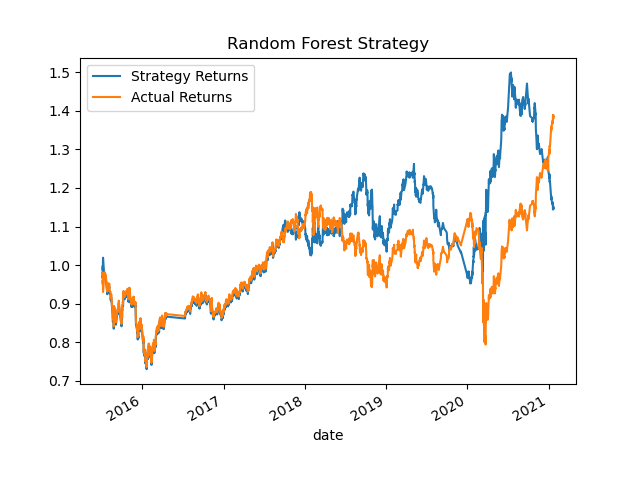
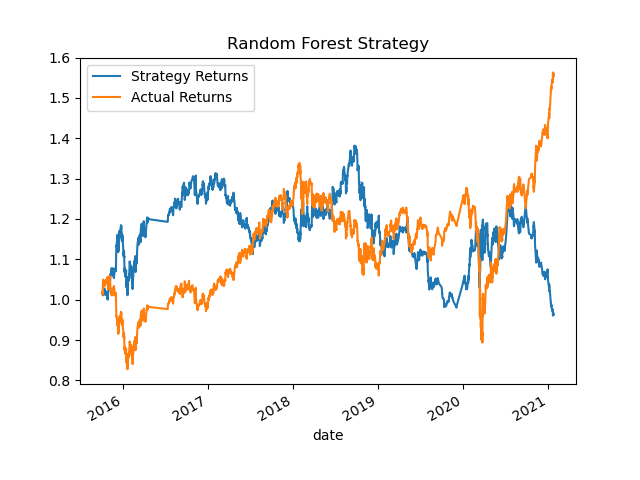
Trained models using finalized parameters and updated README

diff --git a/README.md b/README.md
@@ -24,7 +24,21 @@ The code runs directly in the jupyter notebook. Data are first read from the csv
 The data are split between training and testing, where the first three months are used to train the machine learning models and the rest of the days are predicted on. The training data is then scaled and the models are fit to it. Predictions are then generated, as well as classification reports. Returns from each strategy are plotted against the baseline strategy as well.
 
 ## Results
-The returns from each of the models compared to the baseline are plotted below:
+
+### Model tuning 
+The SVC model was first trained on three months of data to obtain a baseline. The returns were plotted against actual returns from holding the stock in the following plot:
+[!SVC_Returns.PNG]
+The model was then retrained on six months of data to see if the returns could be improved.
+[!SVC_Returns_6_months.PNG]
+Training on six months of data yielded 30% higher returns!
+
+The short SMA window was also modified from 4 days to 50 days to see if returns would improve and the results are plotted below
+[!SVC_Returns_50dSMA.PNG]
+Now the model is underperforming, so the short window was kept at 4 days,
+Modifying the short SMA window did not improve results, but the increased number of training days was maintained at 6 months.
+
+### Model Comparison
+The returns from each of the models compared to the actual returns are plotted below:
 
 [!RF_Returns.PNG]
 [!SVC_Returns.PNG]
@@ -38,7 +52,7 @@ The classification report for the random forest model is below:
 And the classification report for the SVC model is as follows:
 [!SVM_classification_report.PNG]
 
-The accuracy for both models is comparable at 52% for the random forest and 55% for the support vector classifier, but the random forest model performs slightly worse overall. The random forest model is much better than the SVC model at predicting when the price will fall with much higher recall and precision for the short signals, at the cost of worse performance when predicting buy signals. 
+The accuracy of the models was 49% for the random forest and 56% for the support vector classifier, indicating that the random forest model performs worse overall. Despite the worse overall performance, the random forest model is much better than the SVC model at predicting when the price will fall with much higher recall and precision for the short signals, at the cost of worse performance when predicting buy signals. 
 
 ## Contributors
 
